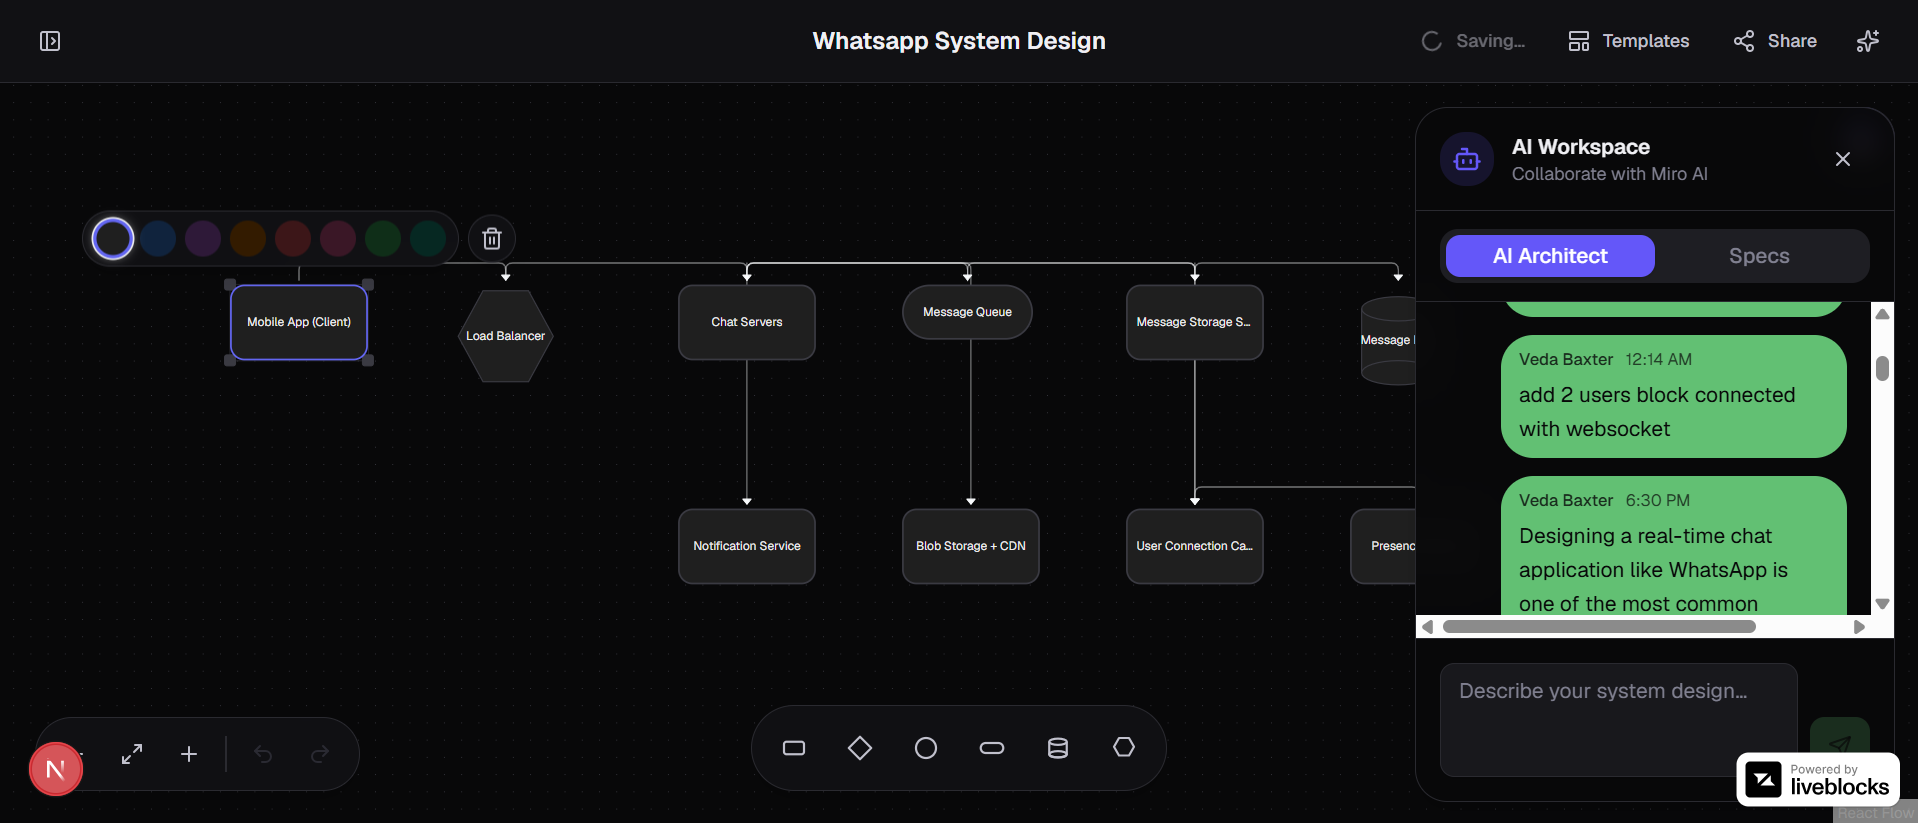
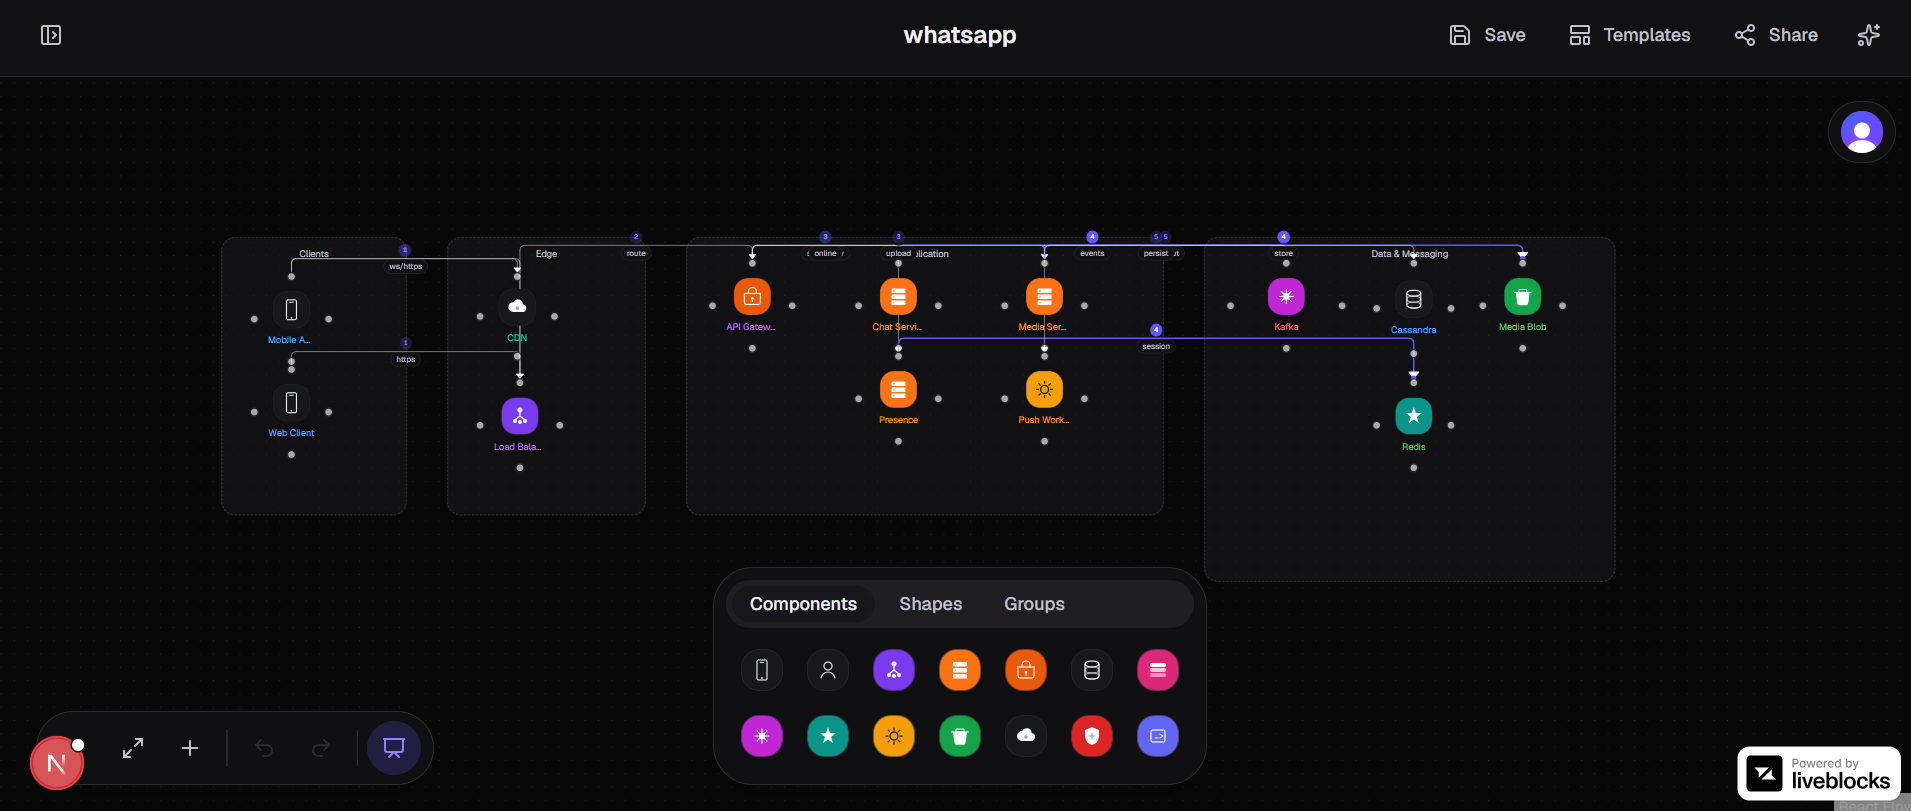
feat: update

diff --git a/app/sign-in/[[...sign-in]]/page.tsx b/app/sign-in/[[...sign-in]]/page.tsx
@@ -46,7 +46,7 @@ export default async function SignInPage() {
               </span>
             </div>
             <span className="text-sm font-semibold text-text-primary">
-              Miro AI
+              Archflow
             </span>
           </div>
         </div>
@@ -58,7 +58,7 @@ export default async function SignInPage() {
             speed of thought.
           </h1>
           <p className="text-text-secondary text-base leading-relaxed mb-12 max-w-sm">
-            Describe your architecture in plain English. Miro AI maps it to a
+            Describe your architecture in plain English. Archflow maps it to a
             shared canvas your whole team can refine in real time.
           </p>
 
@@ -83,7 +83,7 @@ export default async function SignInPage() {
 
         <div className="px-12 pb-10">
           <p className="text-xs text-text-faint">
-            © 2026 Miro AI. All rights reserved.
+            © 2026 Archflow. All rights reserved.
           </p>
         </div>
       </div>

diff --git a/app/sign-up/[[...sign-up]]/page.tsx b/app/sign-up/[[...sign-up]]/page.tsx
@@ -46,7 +46,7 @@ export default async function SignUpPage() {
               </span>
             </div>
             <span className="text-sm font-semibold text-text-primary">
-              Miro AI
+              Archflow
             </span>
           </div>
         </div>
@@ -58,7 +58,7 @@ export default async function SignUpPage() {
             speed of thought.
           </h1>
           <p className="text-text-secondary text-base leading-relaxed mb-12 max-w-sm">
-            Describe your architecture in plain English. Miro AI maps it to a
+            Describe your architecture in plain English. Archflow maps it to a
             shared canvas your whole team can refine in real time.
           </p>
 
@@ -83,7 +83,7 @@ export default async function SignUpPage() {
 
         <div className="px-12 pb-10">
           <p className="text-xs text-text-faint">
-            © 2026 Miro AI. All rights reserved.
+            © 2026 Archflow. All rights reserved.
           </p>
         </div>
       </div>

diff --git a/lib/design-agent-decide.ts b/lib/design-agent-decide.ts
@@ -17,7 +17,7 @@ const decideSchema = z.object({
   planningPrompt: z.string().nullable(),
 })
 
-const SYSTEM_PROMPT = `You are Miro AI deciding the next Design chat turn for a collaborative architecture canvas.
+const SYSTEM_PROMPT = `You are Archflow deciding the next Design chat turn for a collaborative architecture canvas.
 
 Choose exactly one outcome:
 1) interview — open-ended architecture asks, or continuing a Design interview to gather functional/non-functional requirements. Ask one focused question (or a short tight set). Set offerGenerate=true only when requirements are clear enough to draw the diagram.

diff --git a/lib/design-agent-openai.ts b/lib/design-agent-openai.ts
@@ -16,7 +16,7 @@ const COLOR_GUIDE = NODE_COLORS.map(
   (entry, index) => `${index}: fill ${entry.fill}, text ${entry.text}`
 ).join("\n")
 
-const SYSTEM_PROMPT = `You are Miro AI, a system design assistant for a collaborative architecture canvas.
+const SYSTEM_PROMPT = `You are Archflow, a system design assistant for a collaborative architecture canvas.
 
 Return a JSON plan with canvas actions only. Use these action types:
 - add_node, move_node, resize_node, update_node, delete_node, add_edge, delete_edge

diff --git a/lib/spec-agent-openai.ts b/lib/spec-agent-openai.ts
@@ -2,7 +2,7 @@ import { generateText } from "ai"
 import { getOpenAIModel } from "@/lib/openai"
 import type { GenerateSpecPayload } from "@/types/spec-agent"
 
-const SYSTEM_PROMPT = `You are Miro AI, a technical writing assistant for system architecture diagrams.
+const SYSTEM_PROMPT = `You are Archflow, a technical writing assistant for system architecture diagrams.
 
 Write a complete Markdown technical specification from the provided canvas graph and room chat history.
 

diff --git a/types/tasks.ts b/types/tasks.ts
@@ -1,7 +1,7 @@
 import { z } from "zod"
 
-export const AI_AGENT_USER_ID = "miro-ai" as const
-export const AI_AGENT_DISPLAY_NAME = "Miro AI" as const
+export const AI_AGENT_USER_ID = "archflow-ai" as const
+export const AI_AGENT_DISPLAY_NAME = "Archflow" as const
 export const AI_STATUS_FEED_ID = "ai-status-feed" as const
 export const AI_STATUS_MESSAGE_ID = "ai-status-latest" as const
 export const AI_CHAT_FEED_ID = "ai-chat" as const

diff --git a/components/editor/editor-ai-sidebar.tsx b/components/editor/editor-ai-sidebar.tsx
@@ -37,7 +37,7 @@ function AiSidebarHeader({ onClose }: { onClose: () => void }) {
       </div>
       <div className="min-w-0 flex-1">
         <h2 className="text-sm font-semibold text-copy-primary">AI Workspace</h2>
-        <p className="text-xs text-copy-muted">Collaborate with Miro AI</p>
+        <p className="text-xs text-copy-muted">Collaborate with Archflow</p>
       </div>
       <Button
         type="button"

diff --git a/components/editor/ai-run-status-strip.tsx b/components/editor/ai-run-status-strip.tsx
@@ -22,7 +22,7 @@ export function AiRunStatusStrip({ active }: AiRunStatusStripProps) {
       </span>
       <Loader2 className="h-3.5 w-3.5 shrink-0 animate-spin text-accent-chat" />
       <p className="truncate text-xs text-copy-primary">
-        {latestStatus ?? "Miro AI is updating the canvas…"}
+        {latestStatus ?? "Archflow is updating the canvas…"}
       </p>
     </div>
   )

diff --git a/components/editor/ai-status-indicator.tsx b/components/editor/ai-status-indicator.tsx
@@ -16,7 +16,7 @@ export function AiStatusIndicator() {
         <Loader2 className="h-3.5 w-3.5 shrink-0 animate-spin text-accent-ai" />
       ) : null}
       <p className="truncate text-xs text-accent-ai-text">
-        {latestStatus ?? (isGenerating ? "Miro AI is working…" : "")}
+        {latestStatus ?? (isGenerating ? "Archflow is working…" : "")}
       </p>
     </div>
   )

diff --git a/hooks/use-ai-generation-state.ts b/hooks/use-ai-generation-state.ts
@@ -37,7 +37,7 @@ export function useAiGenerationState() {
 
   return {
     isGenerating,
-    /** Miro AI presence thinking — true while a Design run (incl. apply) is in flight. */
+    /** Archflow presence thinking — true while a Design run (incl. apply) is in flight. */
     isAiApplyActive: aiThinkingFromPresence,
     latestStatus,
   }

diff --git a/lib/build-spec-trigger-body.test.ts b/lib/build-spec-trigger-body.test.ts
@@ -48,7 +48,7 @@ describe("buildSpecTriggerBody", () => {
         timestamp: 1,
       },
       {
-        sender: "Miro AI",
+        sender: "Archflow",
         role: "assistant",
         content: "Ready to draw.",
         timestamp: 2,

diff --git a/lib/liveblocks-ai-agent.ts b/lib/liveblocks-ai-agent.ts
@@ -9,7 +9,7 @@ import {
   AI_STATUS_MESSAGE_ID,
 } from "@/types/tasks"
 
-const AI_AGENT_NAME = "Miro AI"
+const AI_AGENT_NAME = AI_AGENT_DISPLAY_NAME
 const AI_AGENT_COLOR = "#8b82ff"
 const PRESENCE_TTL_SECONDS = 120
 
